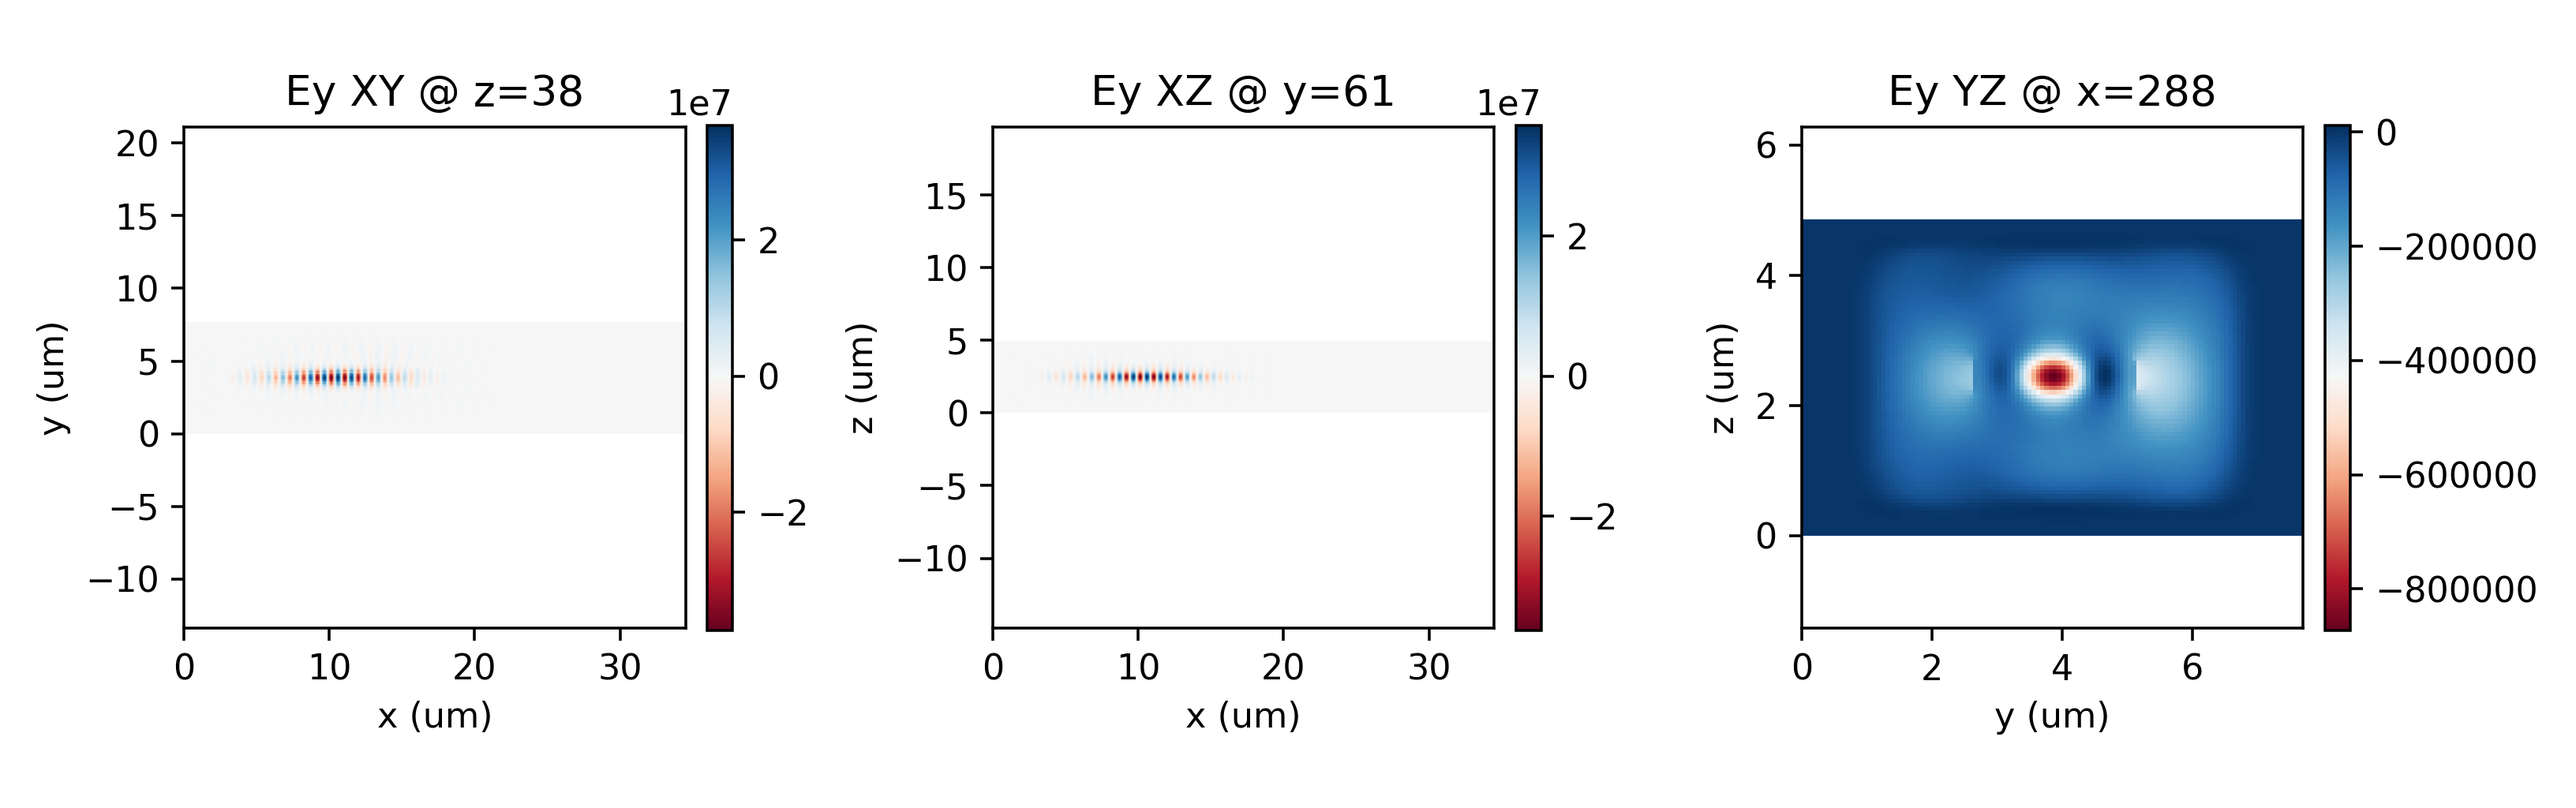
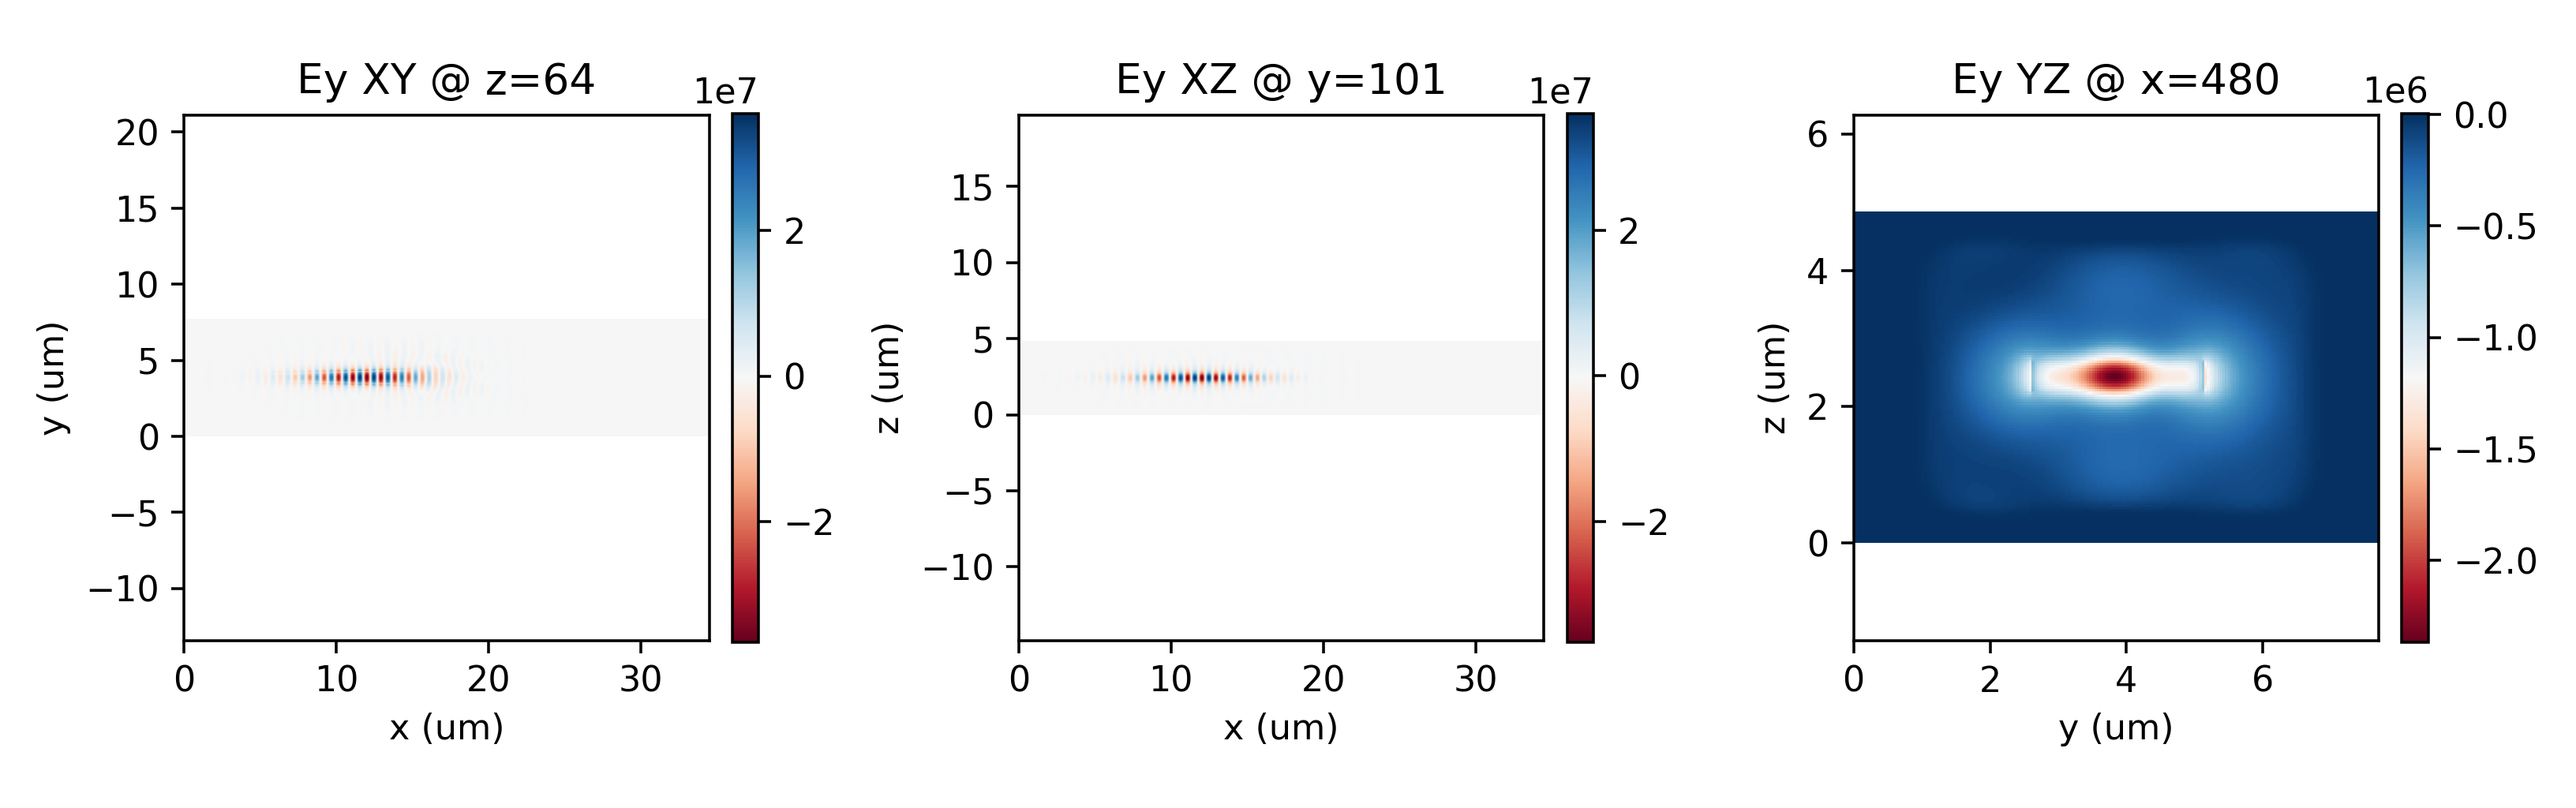
<0.75 db loss. THis seems decent!

diff --git a/examples/gdsf_to_sax_3d.py b/examples/gdsf_to_sax_3d.py
@@ -189,7 +189,7 @@ def main():
         n_max=n_core,
         dims=3,
         safety_factor=0.96,
-        points_per_wavelength=12,
+        points_per_wavelength=20,
     )
 
     imported_design, ports = gdsf.load(
@@ -227,25 +227,27 @@ def main():
     }
 
     # Extend all ports outward to create uniform monitor/source sections.
+    port_overlap = 0.20 * µm
     for name, port in ports.items():
         cx, cy = port["center"]
         w = float(port["width"])
         ext = input_extension if name == "o1" else output_extension
         d_out = outward_direction(port["direction"])
+        sx, sy = move_along((cx, cy), d_out, -port_overlap)
         ox, oy = move_along((cx, cy), d_out, ext)
         if d_out.endswith("x"):
             design += Rectangle(
-                position=(min(cx, ox), cy - 0.5 * w, core_z0),
-                width=abs(ox - cx),
+                position=(min(sx, ox), cy - 0.5 * w, core_z0),
+                width=abs(ox - sx),
                 height=w,
                 depth=core_t,
                 material=Material(n_core**2),
             )
         else:
             design += Rectangle(
-                position=(cx - 0.5 * w, min(cy, oy), core_z0),
+                position=(cx - 0.5 * w, min(sy, oy), core_z0),
                 width=w,
-                height=abs(oy - cy),
+                height=abs(oy - sy),
                 depth=core_t,
                 material=Material(n_core**2),
             )
@@ -333,7 +335,8 @@ def main():
     dft_o2_t_start, dft_o2_t_end = centered_window(t_o2_center)
     dft_o3_t_start, dft_o3_t_end = centered_window(t_o3_center)
 
-    t_total = max(dft_ref_t_end, dft_o2_t_end, dft_o3_t_end) + 18.0 / f0
+    settle_tail = 24.0 / f0
+    t_total = max(dft_ref_t_end, dft_o2_t_end, dft_o3_t_end) + settle_tail
     time = np.arange(0.0, t_total, dt)
 
     source.signal = np.exp(-0.5 * ((time - pulse_t0) / max(pulse_sigma, 1e-30)) ** 2) * np.cos(
